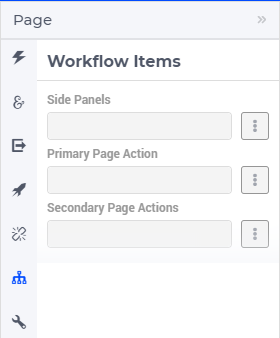
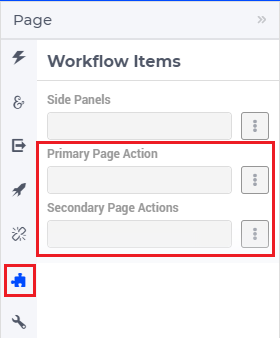
Changes to Page Actions for Page Extensions and updated images

Changed region(s): [[0.0, 0.4142, 1.0, 0.8876]]

diff --git a/webui/page-settings.rst b/webui/page-settings.rst
@@ -8,6 +8,7 @@ Page Settings
 
 .. |workflow-items| image:: images/workflowitems-icon.png
 
+.. |PageExtensionsicon| image:: images/PageExtensionsicon.png
 
 You can access the Page Settings via the 'options wheel' in the `WebUI Menu Bar <menu-bar.html>`_ |page-settings|.
 
@@ -129,7 +130,7 @@ Secondary Action buttons consist of a label and an icon that can be configured i
 Configuring Page Actions
 ^^^^^^^^^^^^^^^^^^^^^^^^
 
-The Page Actions can be configured by the application developer via the AIMMS model. In the `Pages and Dialog Support <library.html#pages-and-dialog-support-section>`_ section, the set PageActionSpecification is declared which is used for configuring Page Actions as illustrated in the next steps.
+Page Actions can be configured by the application developer via the AIMMS model. In the Public Page and Widget Specification Declarations under the `Pages and Dialog Support <library.html#pages-and-dialog-support-section>`_ section, the set PageActionSpecification is declared which is used for configuring Page Actions as illustrated in the next steps.
 
 .. image:: images/PageActions_PageActionSpec.png
     :align: center
@@ -162,12 +163,7 @@ By default, when the :token:`displayText` is not defined the Primary Action labe
 Configuring Secondary Actions
 +++++++++++++++++++++++++++++
 
-First, create a set for the order of actions to be displayed on the page. For illustration, let’s call this set “PageActionOrder” with index :token:`indexPageActionOrder` (as a developer, you can give this set a name and an index of your choice). This set determines the order in which the Secondary Actions will appear from top to bottom. This set must be a subset of the pre-declared set of Integers. 
-
-.. image:: images/PageActions_OrderSet.png
-    :align: center
-
-Create a string parameter indexed by PageActionOrder and PageActionSpecification. Let's call this :token:`MySecondaryActions(indexPageActionOrder,webui::indexPageActionSpec)`. Right click the string parameter and click on the Data option to open the data page. Add the details for the Secondary Actions you would like to show for the respective page(s). For example:
+Create a string parameter indexed by the ExtensionOrder set with :token:`webui::indexPageExtension` and PageActionSpecification with the index :token:`webui::indexPageActionSpec`. Let's call this :token:`MySecondaryActions(webui::indexPageExtension,webui::indexPageActionSpec)`. Right click the string parameter and click on the Data option to open the data page. Add the details for the Secondary Actions you would like to show for the respective page(s). For example:
 
 .. image:: images/PageActions_SecondaryStringParamAndData.png
     :align: center
@@ -181,7 +177,7 @@ In the illustrated example, we have defined 5 Secondary Actions with different s
 Configuring Actions on Pages
 ++++++++++++++++++++++++++++
 
-In the WebUI, navigate to the respective page. In the Page Settings under the WorkFlow Items |workflow-items| you will find the Primary Action and Secondary Actions fields. Add the respective string parameters in the fields that were configured for that page.
+In the WebUI, navigate to the respective page. In the Page Settings under the Page Extensions tab |PageExtensionsicon| you will find the Primary Page Action and Secondary Page Actions fields. Add the respective string parameters in the fields that were configured for that page.
 
 .. image:: images/PageActions_ConfigStringParam.png
     :align: center
